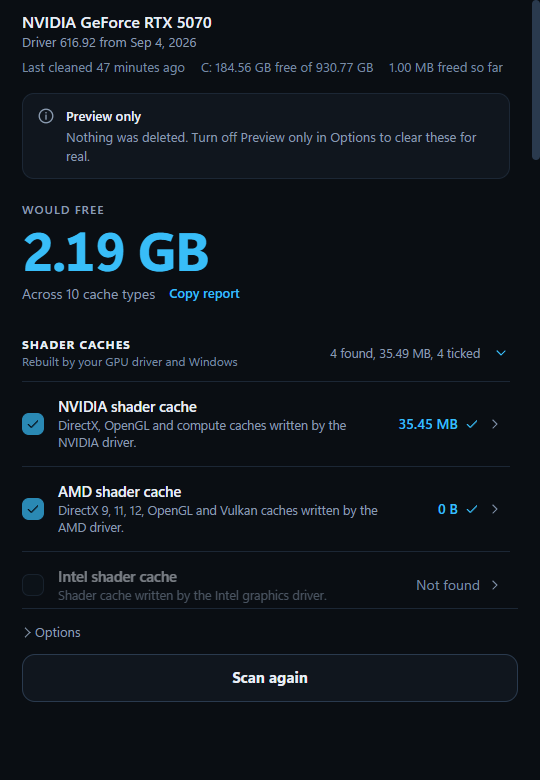
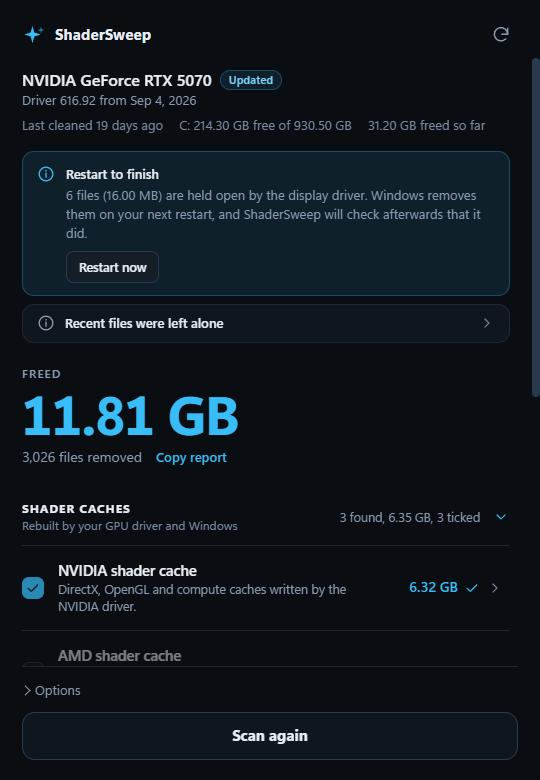
Rewrite the README and retake the screenshots
Adds when a clean is worth running, a table of what is cleaned and which rows start ticked, a safety section, row names for the command line and build steps. Screenshots show the new layout.

diff --git a/README.md b/README.md
@@ -2,50 +2,103 @@
 
 [![Platform](https://img.shields.io/badge/platform-Windows%2010%20%7C%2011-0078D6)](https://github.com/Kkthnx/ShaderSweep)
 [![Release](https://img.shields.io/github/v/release/Kkthnx/ShaderSweep?color=38bdf8)](https://github.com/Kkthnx/ShaderSweep/releases/latest)
+[![Downloads](https://img.shields.io/github/downloads/Kkthnx/ShaderSweep/total?color=38bdf8)](https://github.com/Kkthnx/ShaderSweep/releases)
 [![License: MIT](https://img.shields.io/badge/License-MIT-38bdf8)](LICENSE)
 
-Clear NVIDIA, AMD, Intel, Windows and Steam shader caches, plus game launcher and Windows clutter, in one click. It also watches your GPU driver version and tells you when it changes, so you know when a clean might be worth it.
+A small Windows app that clears GPU shader caches and the clutter that builds up around them. It scans first, shows you every folder it found with its size, and deletes only what you leave ticked.
 
-## What it does
+<p align="center">
+  <img src="assets/shadersweep-ready.png" alt="ShaderSweep listing the caches it found" width="290" />
+  <img src="assets/shadersweep-launchers.png" alt="The game launcher caches, each with its size" width="290" />
+  <img src="assets/shadersweep-done.png" alt="ShaderSweep after a clean, showing the space freed" width="290" />
+</p>
 
-- Scans first. Every cache shows its size and exact folders before anything is deleted.
-- Clears shader caches for NVIDIA, AMD, Intel, Windows DirectX, and Steam, plus Chromium-style caches for Discord, Epic, Battle.net, Steam, the EA app, Ubisoft Connect, GOG Galaxy, and World of Warcraft.
-- Remembers each GPU's driver version from your last clean and tells you when it changes.
-- Counts freed space from files it really deleted. Locked files are queued for the next restart, and it reports whether they were removed.
-- Deletes with several threads at once, so large caches clear about three times faster than one file at a time.
-- Asks before it clears anything that cannot be undone, such as the Recycle Bin.
-- Runs headless with `--clean`, so you can chain it after a driver install or a scheduled task. No installer; the app asks for admin rights when you run it.
+## When it is worth running
+
+Drivers rebuild their shader caches on their own, so most people never have to touch them. This earns its keep after a driver update that leaves a game stuttering, glitching or crashing, when a cache has swollen to several GB, or when you just want the disk space back. One real run on an RTX 5070 PC freed 9.82 GB.
+
+Expect the first launch of each game afterwards to be a little slower while the driver builds what it needs again.
+
+If you turned on Auto Shader Compilation in the NVIDIA App, leave the NVIDIA row unticked after an update. The driver already rebuilt those shaders for you and a clean would throw that work away.
+
+ShaderSweep keeps each GPU's driver version from your last clean, so it can tell you when a driver has changed since.
+
+## What it cleans
+
+| Group | Rows | Starts ticked |
+| --- | --- | --- |
+| Shader caches | NVIDIA, AMD, Intel, the Windows DirectX cache, Steam | Yes |
+| Game launchers | Discord (including PTB and Canary), Epic Games Launcher, Battle.net, Steam client web cache, EA app, Ubisoft Connect, GOG Galaxy | Yes |
+| Game launchers | World of Warcraft `Cache` folders | No |
+| Windows housekeeping | Temporary files, thumbnail cache, Delivery Optimization files | Yes |
+| Windows housekeeping | Windows Update downloads, Prefetch, error reports, GPU crash dumps, Recycle Bin, Event Viewer logs, driver installer leftovers | No |
+
+Anything that is hard to undo starts off. The Recycle Bin and Event Viewer logs also get a confirmation before a real clean, and the Security log is never cleared.
+
+## How it stays safe
+
+- Only folders on a fixed list of regenerable caches are ever touched. Launcher rows match the tail of the cache path, so logins, settings, `WTF`, `Interface` and the games themselves are out of scope.
+- Preview mode measures everything and deletes nothing.
+- An app that is open right now starts unticked, because it keeps its files locked.
+- Freed space is counted from files that were really deleted. A locked file is never reported as freed.
+- The few files the display driver holds can be queued for removal at your next restart. The app checks afterwards that Windows did it.
+- It never stops services or closes your programs. Restart now uses the Windows API with force turned off, so an app with unsaved work makes Windows stop and ask.
+- No network calls. Nothing is uploaded and there is no update checker.
 
 ## Get it
 
-Run this in PowerShell (it checks the download against its published SHA-256 hash first):
+Run this in PowerShell. It checks the download against the SHA-256 hash published with the release and installs nothing if they differ.
 
 ```powershell
 irm https://raw.githubusercontent.com/Kkthnx/ShaderSweep/main/install.ps1 | iex
 ```
 
-Or grab the `ShaderSweep-<version>.zip` or single `.exe` from the [Releases page](https://github.com/Kkthnx/ShaderSweep/releases/latest). The exe is not code signed yet, so Windows SmartScreen may warn you the first time. The source is all here, and CI builds the release from it.
+Or grab the `.exe` or the zip from the [Releases page](https://github.com/Kkthnx/ShaderSweep/releases/latest). Scoop users can use the manifest in [`bucket`](bucket), and the Chocolatey package files are in [`packaging/chocolatey`](packaging/chocolatey).
+
+The exe is not code signed yet, so SmartScreen may warn you the first time. The source is all in this repo and CI builds each release from it.
 
 ## Quick start
 
-1. Run ShaderSweep. It asks for administrator rights when it starts.
-2. Scan to see every cache it found, with sizes and exact folders.
-3. Untick anything you want to keep. Running apps are unticked for you.
-4. Press Clean. If files are waiting for a restart, it asks before rebooting.
+1. Run ShaderSweep. It asks for administrator rights, since some caches belong to system accounts.
+2. Wait for the scan. Each row shows its size, and the arrow next to it lists the exact folders.
+3. Untick anything you want to keep. Select Recommended puts the default ticks back.
+4. Press Clean, or turn on Preview only in Options first to see what would go.
+5. If files are waiting for a restart, the app offers one with a 60 second countdown you can cancel.
 
 ## Command line
+
+For a scheduled task, or to run after a driver install.
 
 ```powershell
 ShaderSweep.exe --clean --preview          # measure only
 ShaderSweep.exe --clean                    # clean the default rows
 ShaderSweep.exe --clean --only nvidia,windows
+ShaderSweep.exe --clean --include installers
 ```
 
-Rows for an app that is running right now are skipped unless you name them with `--only`. Exit codes are 0 done, 1 some files were in use, 2 error. The result is saved to `%LOCALAPPDATA%\ShaderSweep\last-run.txt`. Run `ShaderSweep.exe --help` for every option.
+Row names for `--only` and `--include` are `nvidia`, `amd`, `intel`, `windows`, `steam`, `discord`, `epic`, `battlenet`, `steamclient`, `ea`, `ubisoft`, `gog`, `wow`, `temp`, `thumbnails`, `deliveryopt`, `wucache`, `prefetch`, `errors`, `gpudumps`, `recyclebin`, `eventlogs` and `installers`.
+
+A row for an app that is running is skipped unless you name it with `--only`. Exit codes are 0 for done, 1 when some files were in use and 2 for an error. The result is saved to `%LOCALAPPDATA%\ShaderSweep\last-run.txt`. `ShaderSweep.exe --help` lists every option.
+
+## The PowerShell script
+
+The original script that started this project is still in [`NvidiaShaderCleanup`](NvidiaShaderCleanup). It stops the NVIDIA services, clears the NVIDIA and Windows shader caches and starts the services again. The app does not stop services, because measuring showed the locked file count was the same either way.
+
+## Building it
+
+Tauri 2 with a vanilla TypeScript front end and a Rust back end. You need Node 22 and a current stable Rust toolchain with the MSVC build tools.
+
+```powershell
+cd app
+npm ci
+npm run tauri build
+```
+
+`cargo test` runs the 100 tests in `app/src-tauri`. A few of them write to the pending delete queue in the registry, so they are ignored unless you pass `-- --include-ignored`, which is best done on a throwaway machine.
 
 ## Support the work
 
-Free forever. If it saved you time, chip in:
+Free forever. If it saved you time, chip in.
 
 - [Ko-fi](https://ko-fi.com/kkthnx)
 - [Buy Me a Coffee](https://buymeacoffee.com/kkthnx)
